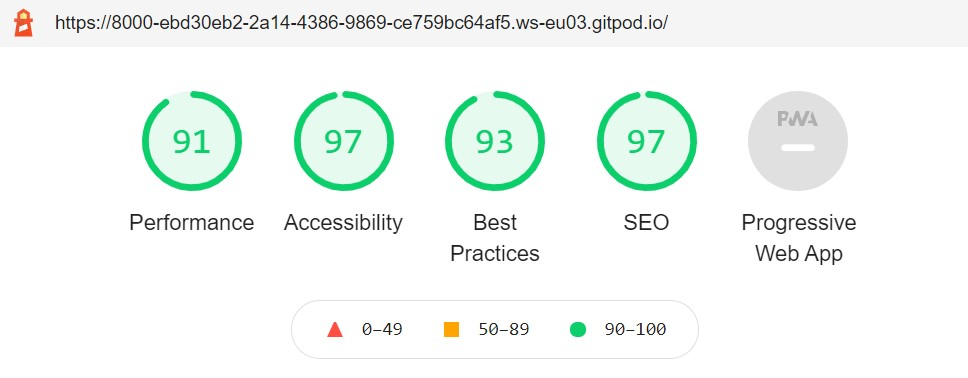
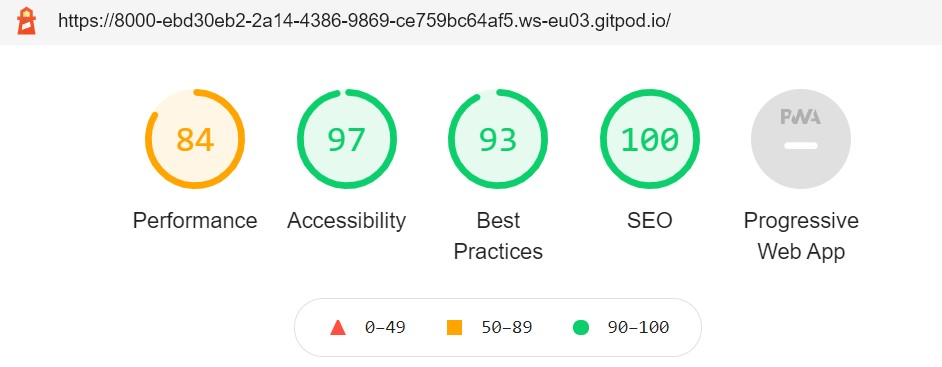
Increased spacing between checkboxes in contact form and updating readme

diff --git a/assets/css/style.css b/assets/css/style.css
@@ -314,6 +314,10 @@ a:hover {
     margin-bottom: 5px;
 }
 
+.col-form-label, .form-check-label, .enquiry {
+    margin-bottom: 20px;
+}
+
 /*----------Footer----------*/
 
 footer {

diff --git a/README.md b/README.md
@@ -271,6 +271,8 @@ My chosen font is Yusei Magic for the headings and Lato for the paragraphs. Thes
     - Form checkbox inputs were labelled incorrectly - they all had the "for" attribute "gridCheck1" as they had been copy and pasted. These were all changed to match the appropriate label.
     - Link colours had an insufficient contrast ratio - I added an underline element upon hovering to increase accessibility.
     - No aria label on home button which would cause screen readers to ignore this important element - rectified by adding aria label "home" to this element.
+    - Tap targets not sized appropriately on mobile devices. This referred to the checkboxes in the contact form which were too small and spaced too close together making it more difficult for a mobile user to select these with their fingers. I fixed this by increasing the spacing on these elements.
+
 
 ## Testing results
 
